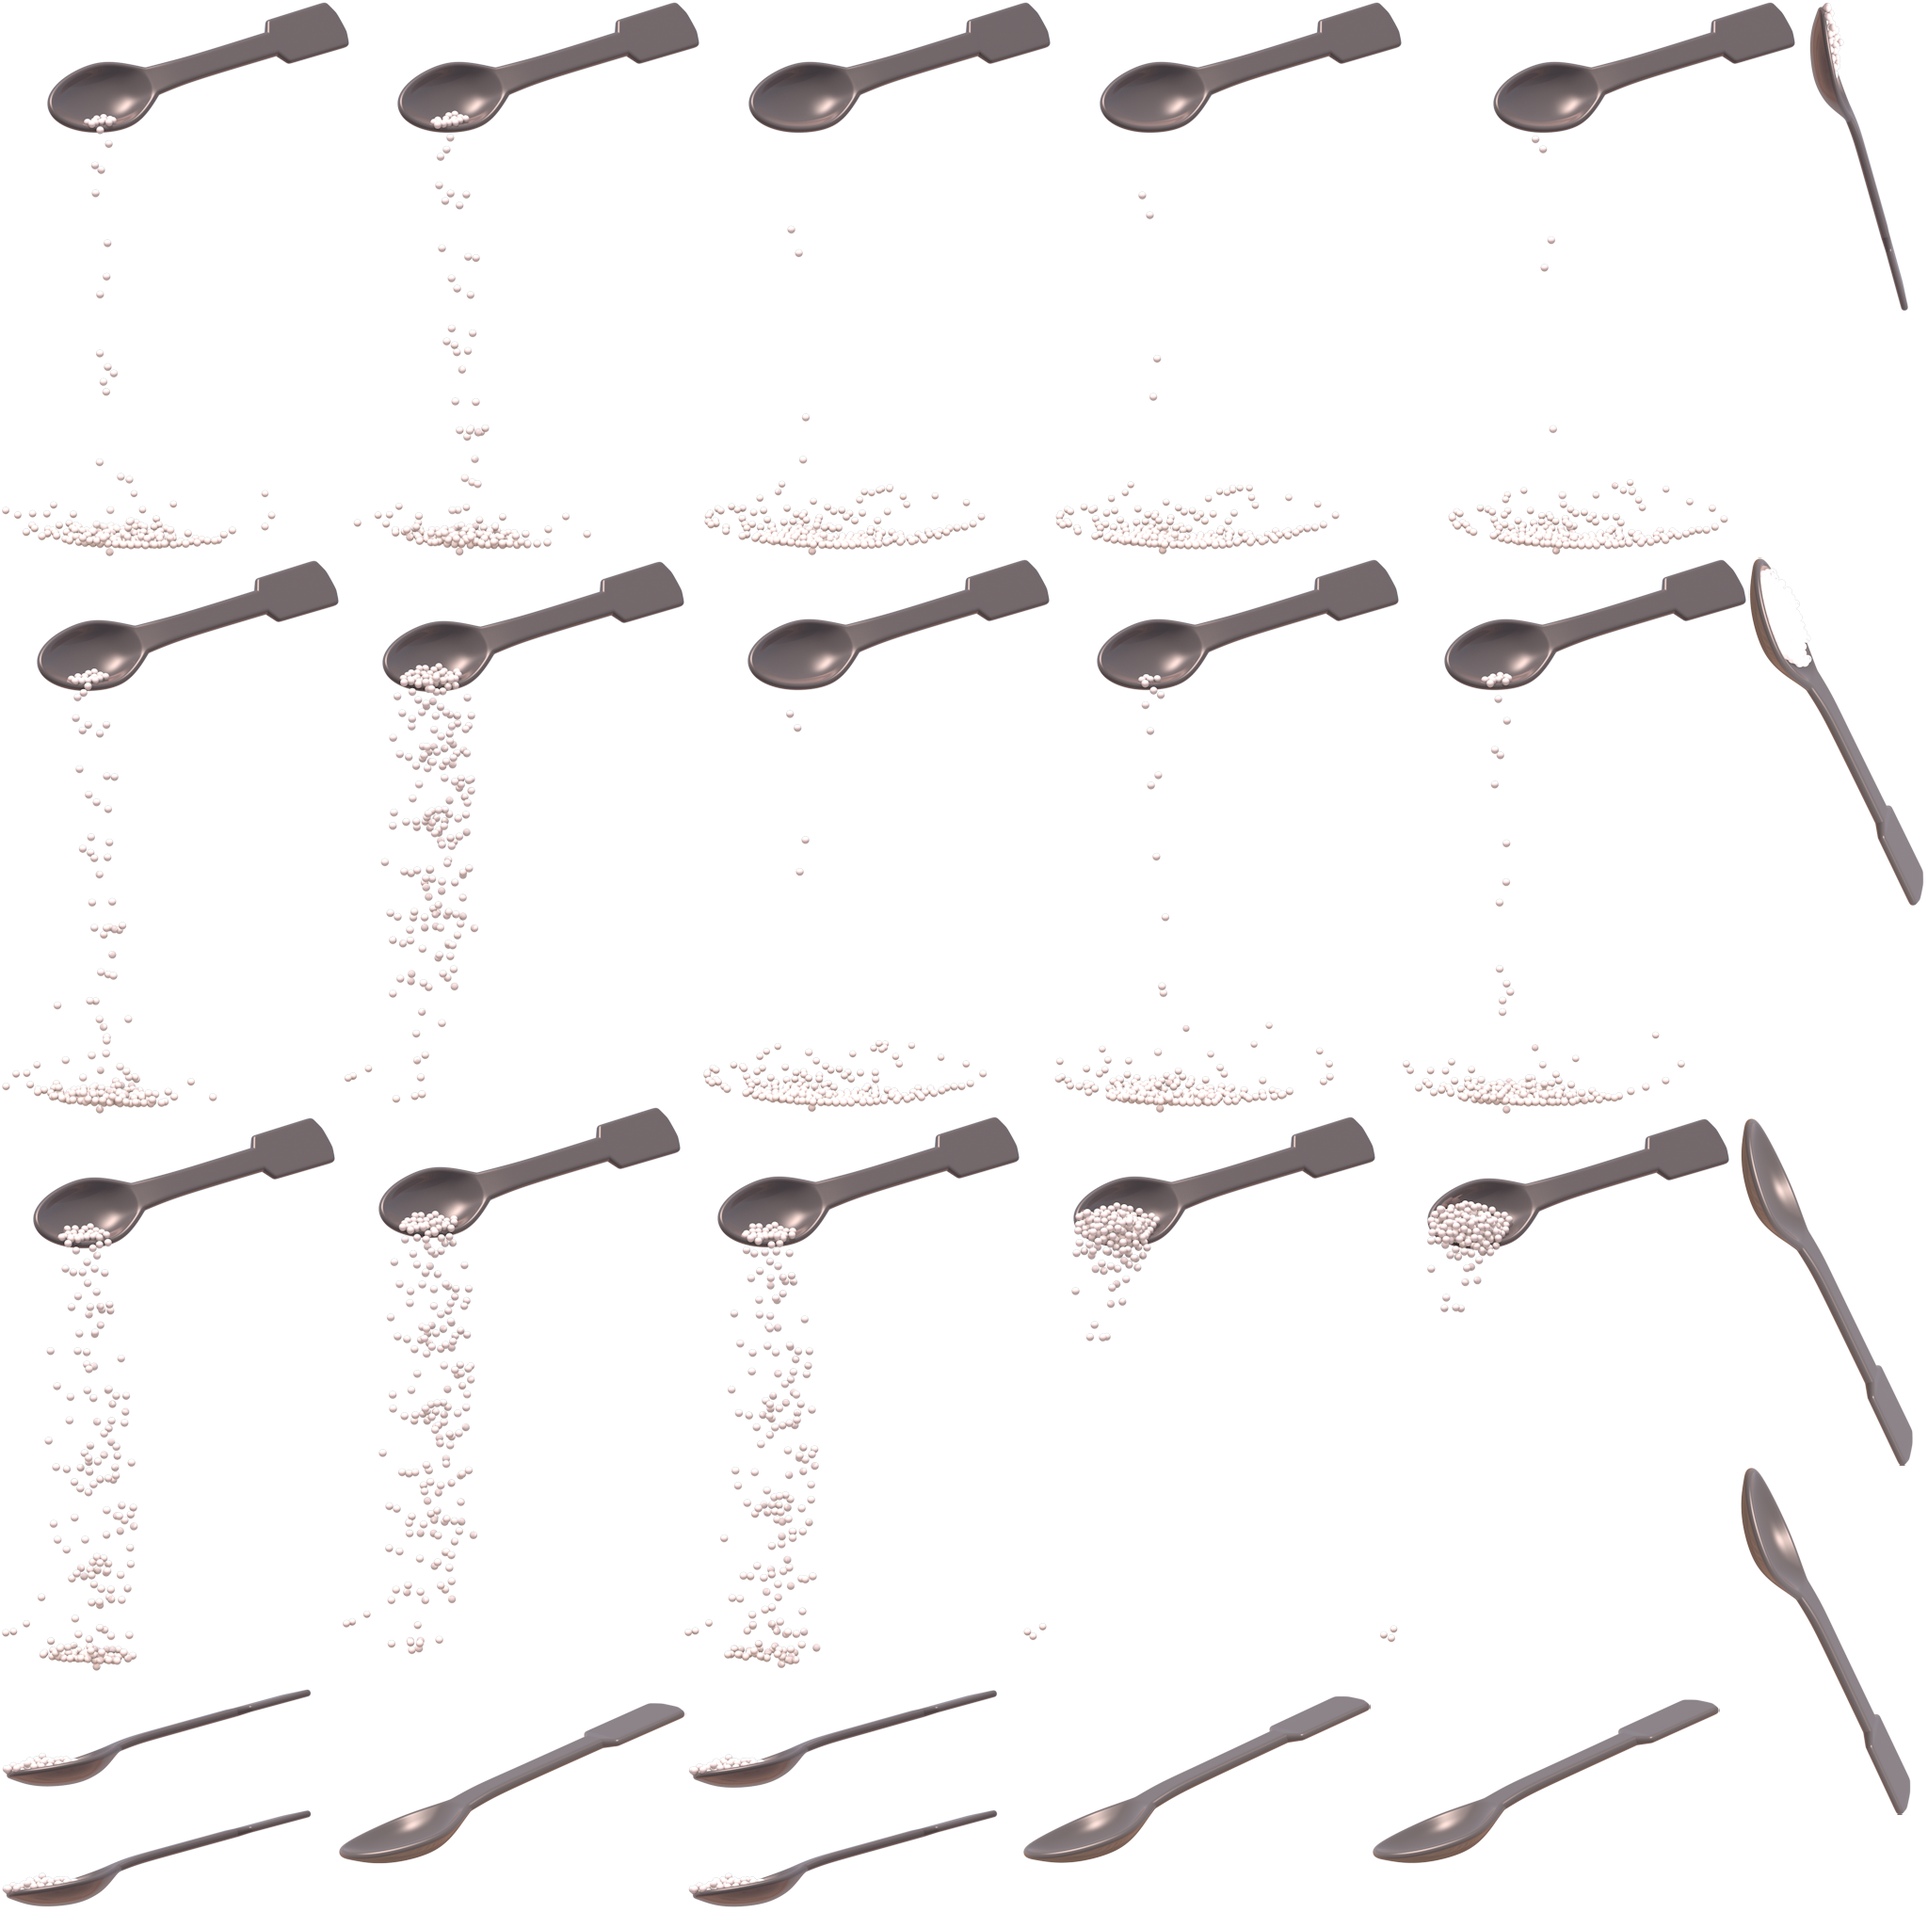
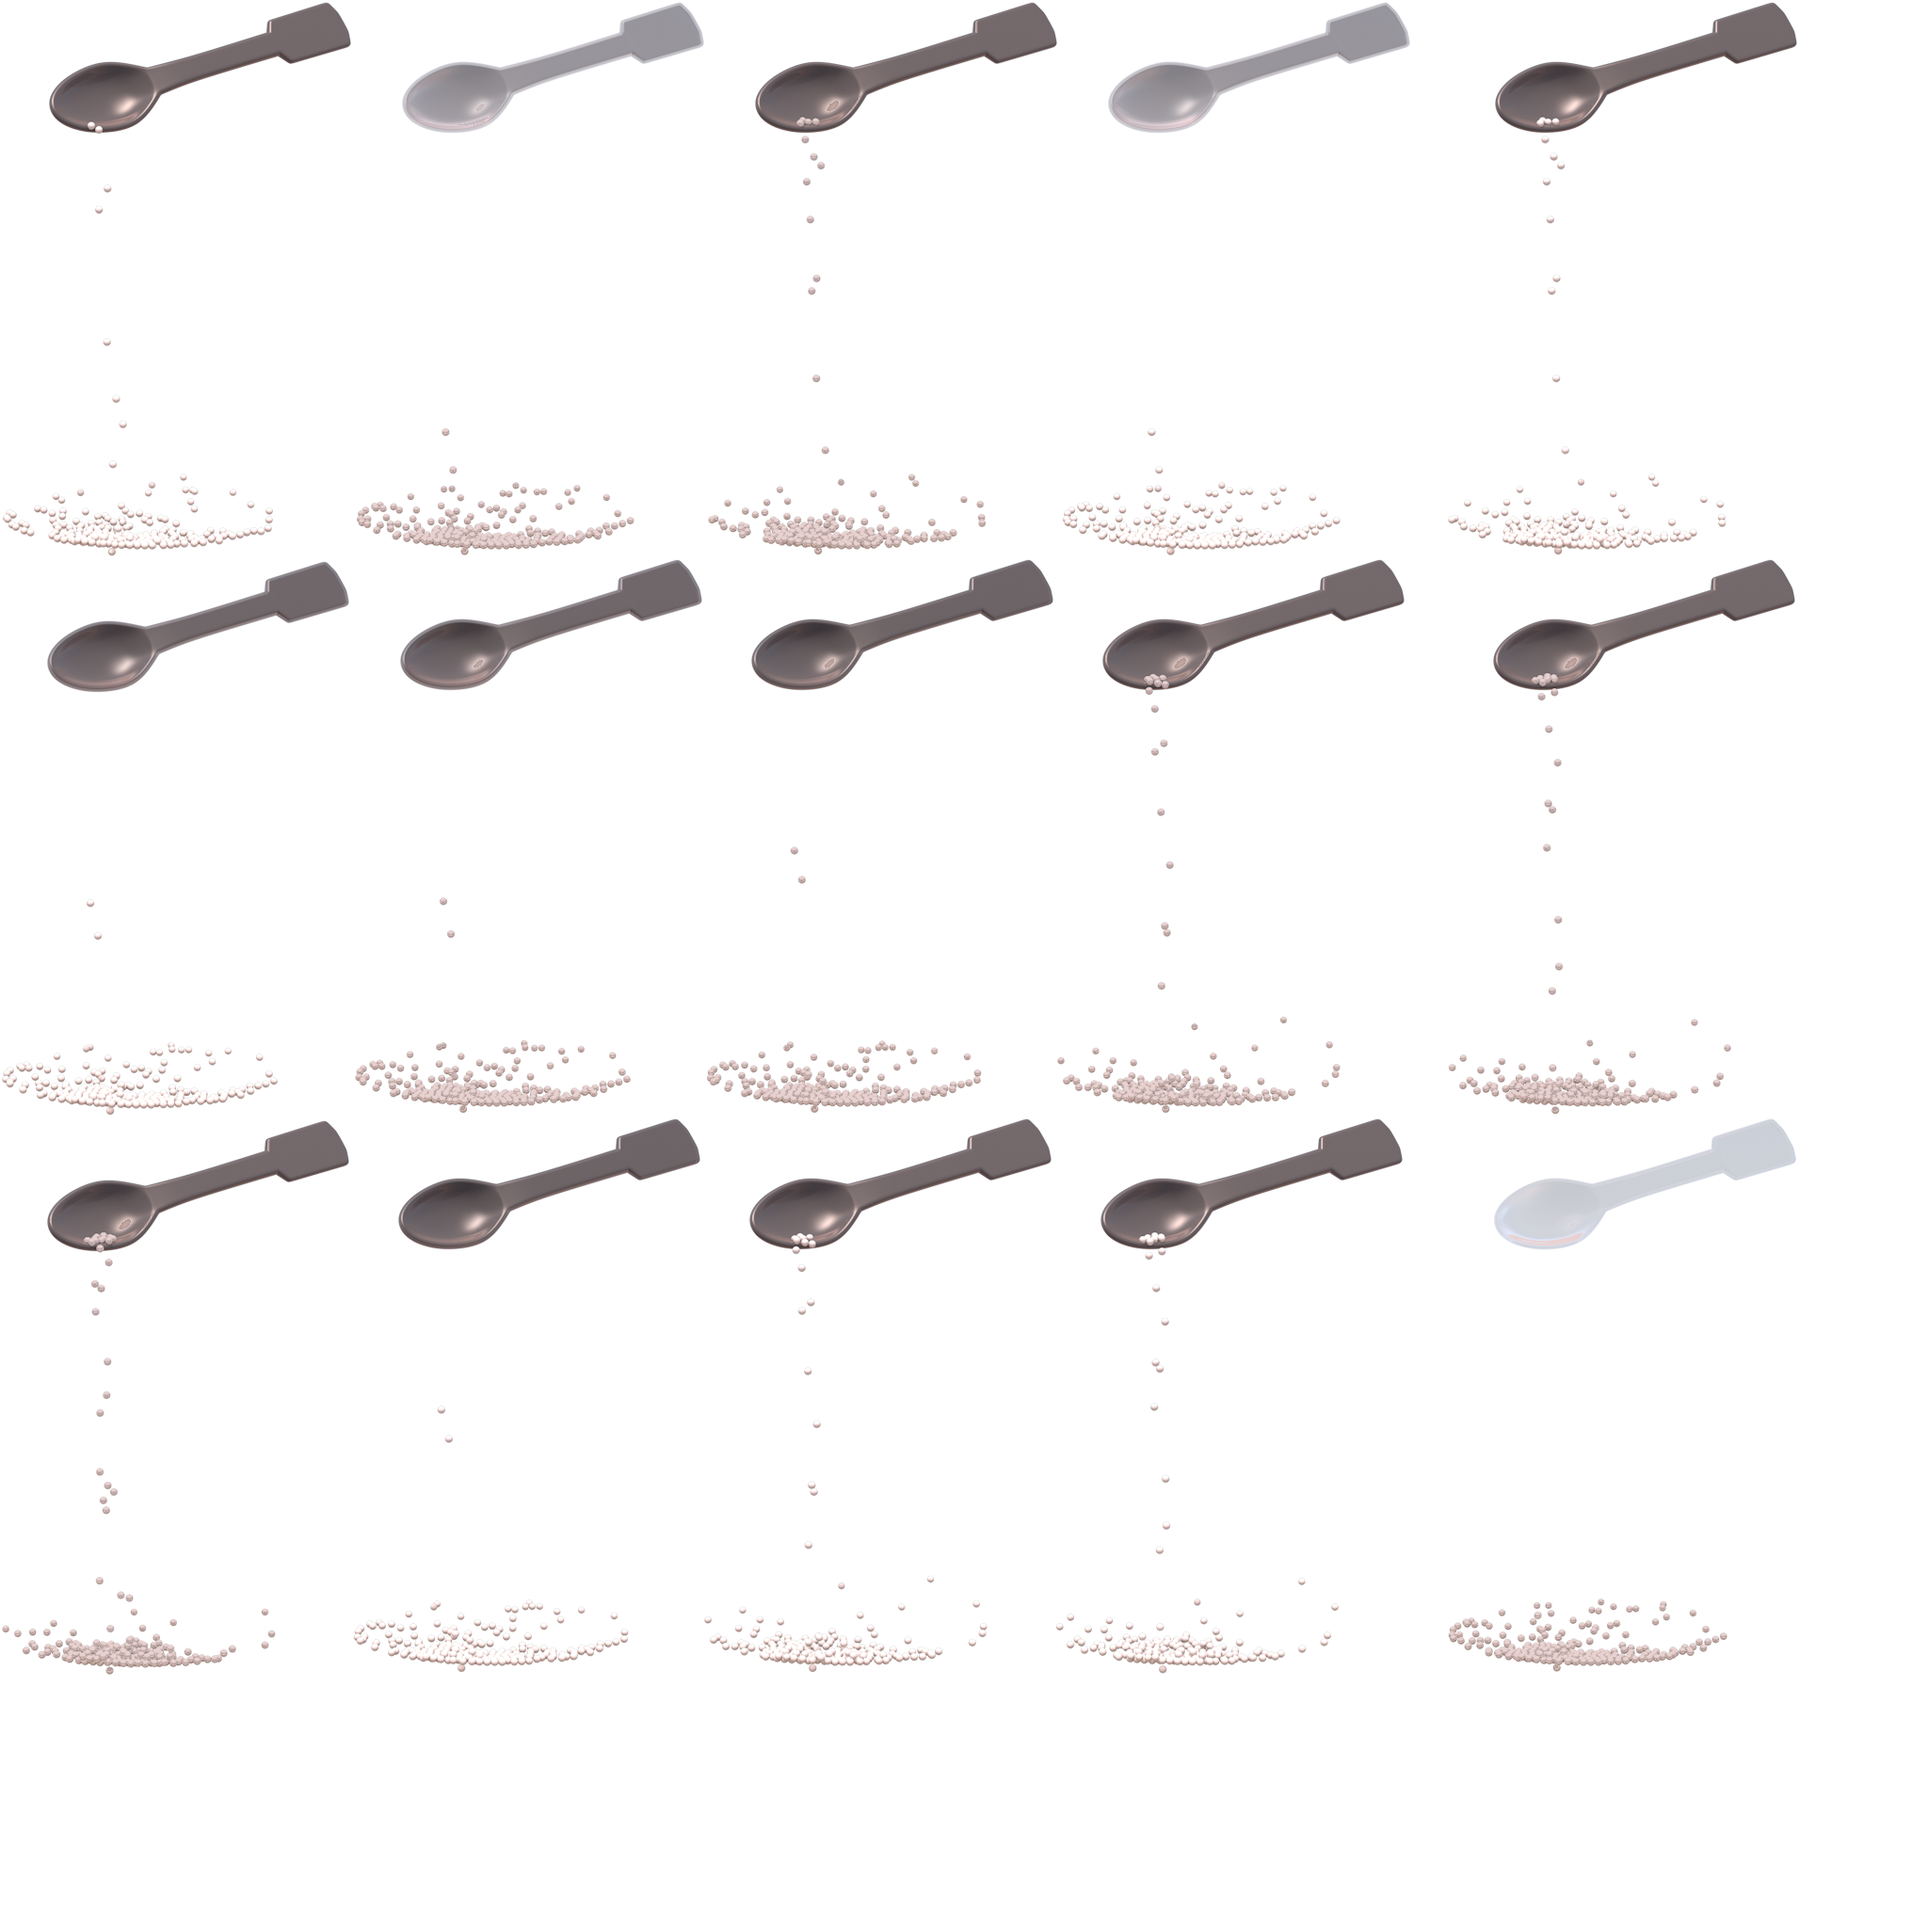
v3

diff --git a/scripts/project/experiment.js b/scripts/project/experiment.js
@@ -5,6 +5,13 @@ export const SETTINGS = Object.freeze({
 	thermometerDropMargin: 50,
 	blinkPeriod: 1.2,
 	pourFPS: 24,
+	stirBarMaxFPS: 90,
+	stirBarAccelerationSeconds: 1.3,
+	stirBarDecelerationSeconds: 2,
+	// Frames 132 and 161 have the same horizontal pose. Advancing through
+	// [132, 161) forms one clean revolution without replaying the lead-in.
+	stirBarLoopStart: 132,
+	stirBarLoopEnd: 161,
 	spoonLiftFPS: 52,
 	thermometerLiftFPS: 30,
 	spoonReturnSeconds: 0.24,
@@ -19,8 +26,18 @@ export const SETTINGS = Object.freeze({
 	waterLastFrame: 189,
 	thermometerApproachSeconds: 0.45,
 	thermometerInsertSeconds: 0.8,
-	nh4cl: { seconds: 18, temperature: 12 },
-	ch3coona: { seconds: 22, temperature: 50 }
+	nh4cl: {
+		seconds: 18,
+		temperature: 12,
+		pourAnimation: "dokulme2",
+		finalAnimation: "son2"
+	},
+	ch3coona: {
+		seconds: 22,
+		temperature: 50,
+		pourAnimation: "dokulme",
+		finalAnimation: "son"
+	}
 });
 
 const WHITE = [1, 1, 1];
@@ -28,6 +45,7 @@ const COLORS = { system: [1, 0.647, 0], surroundings: [0, 0.67, 1], universe: [0
 const BUTTONS = { system: "sistembt", surroundings: "Çevrebt", universe: "Evrenbt" };
 const clamp = (n, low, high) => Math.max(low, Math.min(high, n));
 const smooth = p => p * p * (3 - 2 * p);
+const isPourAnimation = name => ["dokulme", "dokulme2"].includes(String(name).toLowerCase());
 
 function inRect(sprite, x, y, margin = 0) {
 	const r = sprite.getBoundingBox();
@@ -49,6 +67,7 @@ export class EnergyExperiment {
 		this.runtime = runtime;
 		this.o = {};
 		for (const name of ["img", "img2", "img3", "arkabeher", "önbeherdikkat", "arkaplan",
+			"DonerPlastik",
 			"karistiriciacik", "paremetre", "NH4Cl", "CH3COONa", "OFFbt", "gösterge",
 			"sistembt", "Çevrebt", "Evrenbt", "Ekzotermik", "Endotermikbt"])
 			this.o[name] = runtime.objects[name].getFirstInstance();
@@ -65,6 +84,9 @@ export class EnergyExperiment {
 		this.time = 0;
 		this.mixTime = 0;
 		this.stirring = false;
+		this.stirBarSpeed = 0;
+		this.stirBarFrame = 0;
+		this.stirBarStopping = false;
 		// The three concept buttons are available throughout the experiment.
 		this.unlocked = true;
 		this.selection = null;
@@ -84,8 +106,9 @@ export class EnergyExperiment {
 			this.o[name].animationFrame = 0;
 		for (const name of Object.values(BUTTONS)) this.o[name].opacity = 1;
 		this.water.animationFrame = 0;
+		this.o.DonerPlastik.animationFrame = 0;
 		this.onPourEnd = event => {
-			if (String(event.animationName).toLowerCase() === "dokulme" && this.stage === "pouring")
+			if (isPourAnimation(event.animationName) && this.stage === "pouring")
 				this.finishPour();
 		};
 		this.spoon.addEventListener("animationend", this.onPourEnd);
@@ -276,7 +299,7 @@ export class EnergyExperiment {
 	startPour(x = this.water.x + 34.5, y = this.water.y - 167) {
 		this.stage = "pouring";
 		this.water.stopAnimation();
-		still(this.spoon, "dokulme");
+		still(this.spoon, SETTINGS[this.salt].pourAnimation);
 		this.spoon.setPosition(x, y);
 		this.spoon.animationSpeed = SETTINGS.pourFPS;
 		this.spoon.startAnimation("beginning");
@@ -287,14 +310,14 @@ export class EnergyExperiment {
 		// stuck on the final pouring frame.
 		if (this.stage !== "pouring") return;
 		this.stage = "thermometer";
-		still(this.spoon, "son");
+		still(this.spoon, SETTINGS[this.salt].finalAnimation);
 		// The pouring position follows the user's drop point, but the remaining
 		// salt must always settle in the middle of the beaker instead of sliding.
 		this.spoon.setPosition(this.water.x + 34.5, this.water.y - 167);
 		this.spoon.opacity = 1;
 		this.spoon.moveAdjacentToInstance(this.o["önbeherdikkat"], false);
-		// 'son' contains only the salt remaining in the beaker. Creating a second
-		// Sprite here is unnecessary and can interrupt this transition in C3.
+		// The selected salt's final frame contains only the material remaining in
+		// the beaker. A second Sprite could interrupt this transition in C3.
 		this.restingSpoon = null;
 		this.renderOutlines();
 	}
@@ -352,12 +375,18 @@ export class EnergyExperiment {
 	}
 
 	toggleStirrer() {
-		if (!["ready", "mixing", "complete"].includes(this.stage)) return;
+		if (!["ready", "mixing"].includes(this.stage)) return;
 		this.playSound("click");
 		this.stirring = !this.stirring;
 		this.o.OFFbt.animationFrame = this.stirring ? 1 : 0;
 		this.o.karistiriciacik.animationFrame = this.stirring ? 1 : 0;
 		if (this.stirring) {
+			this.stirBarStopping = false;
+			if (this.stirBarFrame < SETTINGS.stirBarLoopStart ||
+				this.stirBarFrame >= SETTINGS.stirBarLoopEnd)
+				this.stirBarFrame = SETTINGS.stirBarLoopStart;
+			this.o.DonerPlastik.stopAnimation();
+			this.o.DonerPlastik.animationFrame = Math.floor(this.stirBarFrame);
 			if (this.stage === "ready") {
 				this.stage = "mixing";
 				this.conceptHint = true;
@@ -367,8 +396,40 @@ export class EnergyExperiment {
 			// Speed zero prevents Construct from looping independently.
 			this.water.animationSpeed = 0;
 			this.water.startAnimation();
-		} else this.water.stopAnimation();
+		} else {
+			this.water.stopAnimation();
+			this.stirBarStopping = true;
+		}
 		this.renderOutlines();
+	}
+
+	updateStirBar(dt) {
+		if (!this.stirring && !this.stirBarStopping) return;
+		if (this.stirBarStopping) {
+			this.stirBarSpeed = Math.max(0, this.stirBarSpeed -
+				SETTINGS.stirBarMaxFPS * dt / SETTINGS.stirBarDecelerationSeconds);
+		} else if (this.stirring && this.stage === "mixing") {
+			this.stirBarSpeed = Math.min(SETTINGS.stirBarMaxFPS, this.stirBarSpeed +
+				SETTINGS.stirBarMaxFPS * dt / SETTINGS.stirBarAccelerationSeconds);
+		}
+		if (this.stirBarSpeed > 0) {
+			const span = SETTINGS.stirBarLoopEnd - SETTINGS.stirBarLoopStart;
+			this.stirBarFrame += this.stirBarSpeed * dt;
+			this.stirBarFrame = SETTINGS.stirBarLoopStart +
+				(this.stirBarFrame - SETTINGS.stirBarLoopStart) % span;
+			this.o.DonerPlastik.animationFrame = Math.floor(this.stirBarFrame);
+		}
+		if (this.stirBarStopping && this.stirBarSpeed === 0) {
+			this.stirBarStopping = false;
+		}
+	}
+
+	finishStirring() {
+		this.stirring = false;
+		this.stirBarStopping = true;
+		this.o.OFFbt.animationFrame = 0;
+		this.o.karistiriciacik.animationFrame = 0;
+		this.water.stopAnimation();
 	}
 
 	chooseConcept(selection) {
@@ -462,7 +523,7 @@ export class EnergyExperiment {
 		}
 		// Animation-end events can be skipped if a tab loses focus at the last
 		// frame. Frame checks keep both required transitions deterministic.
-		if (this.stage === "pouring" && String(this.spoon.animationName).toLowerCase() === "dokulme" &&
+		if (this.stage === "pouring" && isPourAnimation(this.spoon.animationName) &&
 			this.spoon.animationFrame >= 59) this.finishPour();
 		if (this.thermometerPending && this.thermometer.animationName === "Default" &&
 			this.thermometer.animationFrame >= 30) this.startThermometerInsertion();
@@ -482,6 +543,7 @@ export class EnergyExperiment {
 				if (p === 1) this.finishThermometerInsertion();
 			}
 		}
+		this.updateStirBar(dt);
 		if (this.stirring) {
 			if (this.stage === "mixing") {
 				this.mixTime += dt;
@@ -496,7 +558,7 @@ export class EnergyExperiment {
 				if (progress === 1) {
 					this.stage = "complete";
 					this.spoon.isVisible = false;
-					this.water.stopAnimation();
+					this.finishStirring();
 					this.answerHint = !this.answered;
 				}
 			}
@@ -535,7 +597,7 @@ export class EnergyExperiment {
 			}
 			// Surroundings deliberately excludes both the liquid and the beaker.
 			if (this.selection === "surroundings" || this.selection === "universe") {
-				for (const name of ["img2", "karistiriciacik", "NH4Cl", "CH3COONa",
+				for (const name of ["img2", "DonerPlastik", "karistiriciacik", "NH4Cl", "CH3COONa",
 					"paremetre", "OFFbt", "gösterge"])
 					mark(this.o[name]);
 				if (this.restingSpoon) mark(this.restingSpoon);

diff --git a/scripts/objRefTable.js b/scripts/objRefTable.js
@@ -43,6 +43,7 @@ self.C3_JsPropNameTable = [
 	{loaderLogo: 0},
 	{arkaplan: 0},
 	{karistiriciacik: 0},
+	{DonerPlastik: 0},
 	{paremetre: 0},
 	{Ekzotermik: 0},
 	{Endotermikbt: 0},
@@ -78,6 +79,7 @@ self.InstanceType = {
 	loaderLogo: class extends self.ISpriteInstance {},
 	arkaplan: class extends self.ISpriteInstance {},
 	karistiriciacik: class extends self.ISpriteInstance {},
+	DonerPlastik: class extends self.ISpriteInstance {},
 	paremetre: class extends self.ISpriteInstance {},
 	Ekzotermik: class extends self.ISpriteInstance {},
 	Endotermikbt: class extends self.ISpriteInstance {},
